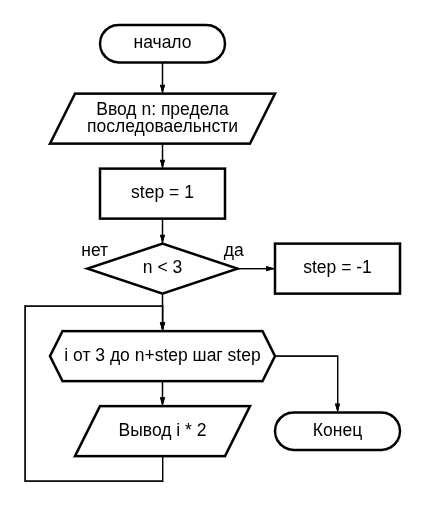
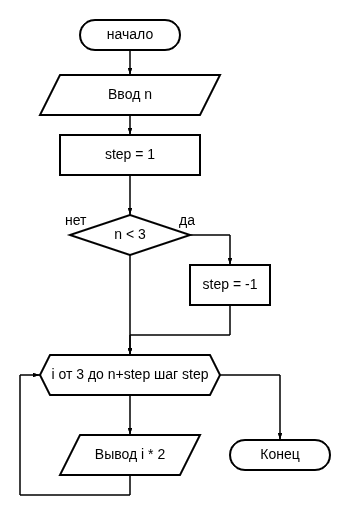
update

Changed region(s): [[0.0571, 0.0296, 0.9429, 0.9783]]

diff --git a/Lab_2/5.py b/Lab_2/5.py
@@ -6,8 +6,11 @@ try:
     step = 1
     sumDK = (D+K)
     difDK = (D-K)
+    if difDK == 0:
+        raise ValueError("Деление на ноль")
     if N < I: step = -1
     print( *[ i * sumDK / difDK
               for i in range(I,N+step,step) ] )
 
-except: print("Ошибка ввода")
+except Exception as e:
+    print(str(e))
